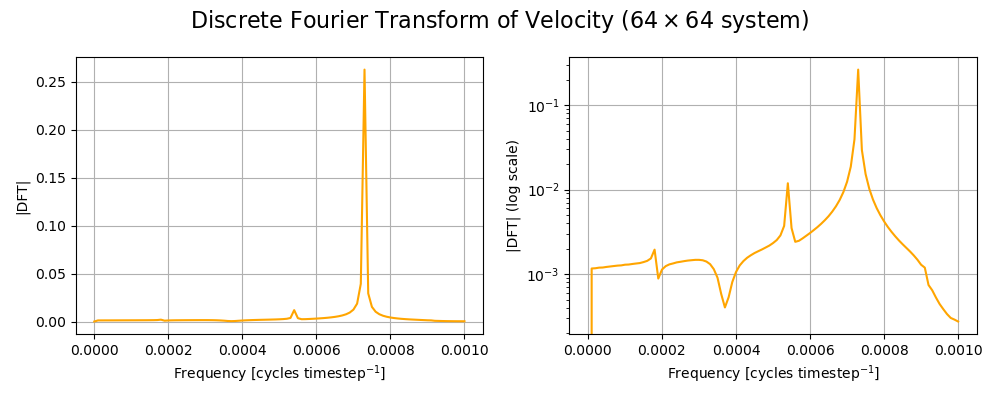
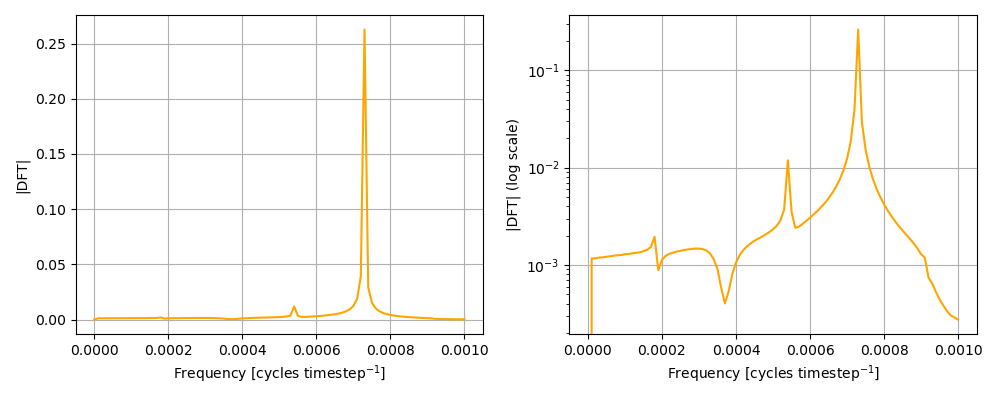
replaced fft figures with no title versions

diff --git a/plot.py b/plot.py
@@ -83,7 +83,7 @@ def plot_fft(data):
 
     fig, ax = plt.subplots(1, 2, figsize=(10, 4))
 
-    fig.suptitle(rf'Discrete Fourier Transform of Velocity (${system} \times {system}$ system)', fontsize=16)
+    #fig.suptitle(rf'Discrete Fourier Transform of Velocity (${system} \times {system}$ system)', fontsize=16)
 
     ax[0].plot(freq, dft, linestyle='-', color='orange')
     ax[0].set_xlabel(r'Frequency [cycles timestep$^{-1}$]')
@@ -101,9 +101,9 @@ def plot_fft(data):
     plt.show()
 
 if __name__ == "__main__":
-    system = "64"
+    system = "32"
     local_path = Path(__file__).parent / f"velocity vs time {system}"
-    file_path = local_path / 'velocity_.0400.dat'
+    file_path = local_path / 'velocity_.0100.dat'
 
     data = np.loadtxt(file_path)
     
